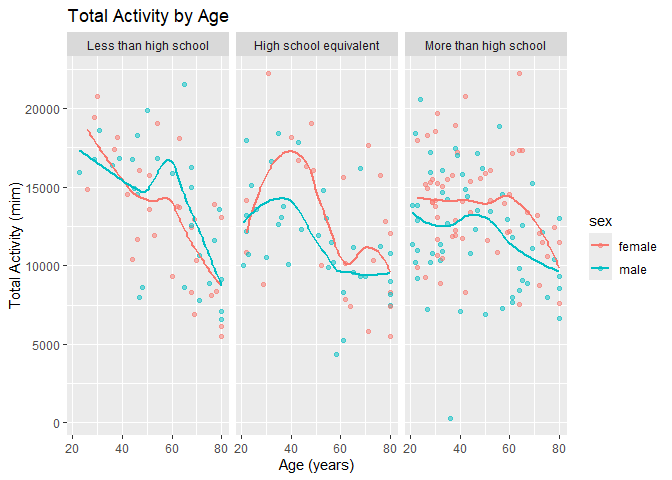
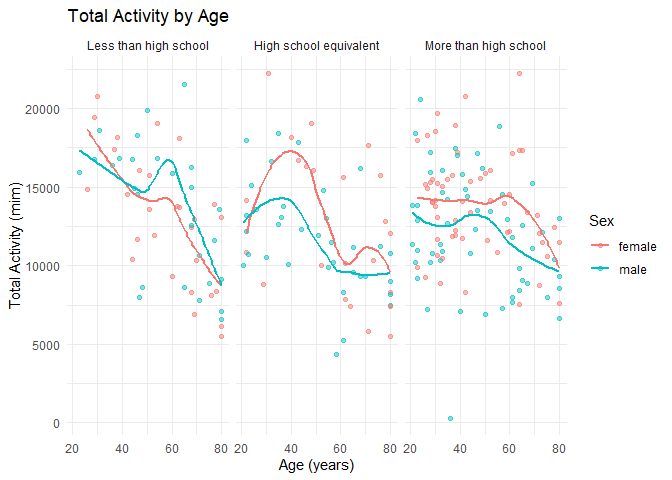
Q1, and some finishing touches on formatting.

Changed region(s): [[0.0938, 0.0625, 0.8438, 0.125], [0.875, 0.4375, 0.9062, 0.4688]]

diff --git a/p8105_hw3_pm3260.md b/p8105_hw3_pm3260.md
@@ -6,13 +6,94 @@ Pradeeti Mainali
 # Question 1
 
 ``` r
-library(p8105.datasets)
 data("ny_noaa")
 ```
 
-### Description of data set
+#### Description of data set
 
-### Data cleaning
+On first look, there are a LOT of missing data. This data set contains
+2595176 rows and 7 variables (id, date, prcp, snow, snwd, tmax, tmin).
+The avg prcp number is 29.8232355 and the avg snow is 37.3122807.
+
+#### Data cleaning
+
+``` r
+ny_noaa = 
+  ny_noaa |>
+  separate(date, into = c("year", "month", "day"), convert = TRUE) |> 
+  mutate(
+    tmax = as.numeric(tmax),
+    tmin = as.numeric(tmin))
+
+ny_noaa |>
+count(snow) |>
+arrange(desc(n))
+```
+
+    ## # A tibble: 282 × 2
+    ##     snow       n
+    ##    <int>   <int>
+    ##  1     0 2008508
+    ##  2    NA  381221
+    ##  3    25   31022
+    ##  4    13   23095
+    ##  5    51   18274
+    ##  6    76   10173
+    ##  7     8    9962
+    ##  8     5    9748
+    ##  9    38    9197
+    ## 10     3    8790
+    ## # ℹ 272 more rows
+
+The most observed value for snow is 0 and NA. This makes sense because
+it does not snow too much in NY.
+
+``` r
+ny_noaa |>
+  group_by(id, year, month) |>
+  filter(month %in% c(1, 7)) |>
+  summarize(mean_tmax = mean(tmax, na.rm = TRUE, color = id)) |>
+  
+  ggplot(aes(x = year, y = mean_tmax, group = id)) + geom_point() + geom_path() +
+  facet_grid(~month) +
+  labs(title = "Mean monthly temperature for each station across years for January and July") +
+  theme_minimal() + 
+  theme(legend.position = "bottom")
+```
+
+![](p8105_hw3_pm3260_files/figure-gfm/meannoaa-1.png)<!-- -->
+
+The temperature on avg is lower in Jan than July. The temperatures stay
+around a similar range within the two months, aside from a couple colder
+outliers (1983~ Jan, 1987~ July, 2004~ July).
+
+``` r
+# installed patchwork package
+library(patchwork)
+
+hex = 
+  ny_noaa |>
+  ggplot(aes(x = tmin, y = tmax)) + 
+  geom_hex() +
+  theme_minimal() + 
+  theme(legend.position = "bottom")
+
+ridge = 
+  ny_noaa |>
+  filter(snow < 100, snow > 0) |>
+  ggplot(aes(x = snow, y = as.factor(year))) + 
+  geom_density_ridges()
+
+hex + ridge
+```
+
+![](p8105_hw3_pm3260_files/figure-gfm/noaaplot-1.png)<!-- -->
+
+Most of the data is concentrated in the middle of the hex plot; there
+are also some data points (in the +,- quadrant) that indicate that some
+tmax values are less then tmin, which is concerning for the data. With
+the ridge plots, you can see clear peaks for all the years 0-35 mm, 45
+mm, and 80 mm of snow, each smaller than the last.
 
 # Question 2
 
@@ -59,7 +140,9 @@ table_sxed =
    mutate(
      education = 
        factor(education, 
-              levels = c("Less than high school", "High school equivalent", "More than high school")))|>
+              levels = c("Less than high school", 
+                         "High school equivalent", 
+                         "More than high school")))|>
   distinct(seqn, education, sex) |>
   count(education, sex) |>
   pivot_wider(
@@ -92,7 +175,9 @@ activity_plot = activity_df |>
    mutate(
      education = 
        factor(education, 
-              levels = c("Less than high school", "High school equivalent", "More than high school")))
+              levels = c("Less than high school", 
+                         "High school equivalent", 
+                         "More than high school")))
 
 ggplot(
   activity_plot, 
@@ -101,12 +186,13 @@ ggplot(
   labs(
      title = "Age Distributions by Education Level and Gender",
     x = "Education Level",
-    y = "Age"
+    y = "Age",
+    color = "Sex"
   ) +
   theme_minimal()
 ```
 
-![](p8105_hw3_pm3260_files/figure-gfm/unnamed-chunk-3-1.png)<!-- -->
+![](p8105_hw3_pm3260_files/figure-gfm/unnamed-chunk-1-1.png)<!-- -->
 
 Women: Median age for those with less than hs or hs equivalent education
 seems to be similar, while those with more than hs education seems to be
@@ -140,8 +226,10 @@ activity_total = activity_df |>
   labs(
     title = "Total Activity by Age",
     x = "Age (years)",
-    y = "Total Activity (mim)"
-  )
+    y = "Total Activity (mim)",
+    color = "Sex"
+  ) +
+  theme_minimal()
 ```
 
 ![](p8105_hw3_pm3260_files/figure-gfm/activity-1.png)<!-- -->
@@ -155,13 +243,17 @@ activity time than men (except in the second half of the plot for less
 than hs education).
 
 ``` r
-activity_hr = activity_df |>
+activity_hr = 
+  activity_df |>
   mutate(hour = ceiling(min / 60)) |>
   group_by(seqn, hour) |>
-  mutate(hr_mim = sum(mim, na.rm = TRUE), 
+  mutate(hr_mim = 
+           sum(mim, na.rm = TRUE), 
          education = 
-        factor(education, 
-              levels = c("Less than high school", "High school equivalent", "More than high school"))) |>
+           factor(education, 
+              levels = c("Less than high school", 
+                         "High school equivalent", 
+                         "More than high school"))) |>
   distinct(seqn, education, hr_mim, hour, sex)
 
 ggplot(activity_hr, aes(x = hour, y = hr_mim, color = sex)) +
@@ -171,8 +263,10 @@ ggplot(activity_hr, aes(x = hour, y = hr_mim, color = sex)) +
   labs(
     title = "24-hour activity time course by education and sex",
     x = "Time (hr)",
-    y = "Activity (mim)"
-  )
+    y = "Activity (mim)",
+    color = "Sex"
+  ) +
+  theme_minimal()
 ```
 
 ![](p8105_hw3_pm3260_files/figure-gfm/acthr-1.png)<!-- -->
@@ -233,7 +327,8 @@ from.
 #### Creating a table:
 
 ``` r
-citi_table <- citi_df |>
+citi_table =
+  citi_df |>
   group_by(year, month, member_casual) |>
   summarize(total_rides = n(), .groups = 'drop') |>
   arrange(year, month) |>
@@ -270,9 +365,11 @@ there are less casual riders around Jan 2020 due to COVID.
 
 ``` r
 top_stations = citi_df |>
-  filter(year == 2024, month == "July") |>
+  filter(
+    year == 2024, 
+    month == "July") |>
   group_by(start_station_name) |>
-  summarize(total_rides = n(), .groups = 'drop') |>
+  summarize(total_rides = n()) |>
   arrange(desc(total_rides)) |>
   slice_max(total_rides, n = 5) |>
   knitr::kable(
@@ -299,12 +396,19 @@ Top 5 Most Popular Starting Stations for July 2024
 ``` r
 citi_grid = citi_df |>
   group_by(year, month, weekdays) |>
-  mutate(median_duration = median(duration, na.rm = TRUE),
-         weekdays = factor(weekdays,
-         levels = c("Monday", "Tuesday", "Wednesday", "Thursday", "Friday", "Saturday", "Sunday")))
+  mutate(
+    median_duration = median(duration, na.rm = TRUE),
+    weekdays = 
+      factor(weekdays,
+             levels = c("Monday", "Tuesday", "Wednesday", 
+                        "Thursday", "Friday", "Saturday", 
+                        "Sunday")))
 
-
-ggplot(citi_grid, aes(x = weekdays, y = median_duration, group = interaction(year, month), color = interaction(year, month))) +
+ggplot(citi_grid, 
+       aes(x = weekdays, 
+           y = median_duration, 
+           group = interaction(year, month), 
+           color = interaction(year, month))) +
   geom_line() +
   geom_point() +
   facet_grid(year ~ month) +
@@ -317,7 +421,7 @@ ggplot(citi_grid, aes(x = weekdays, y = median_duration, group = interaction(yea
   theme(axis.text.x = element_text(angle = 45, hjust = 1))
 ```
 
-![](p8105_hw3_pm3260_files/figure-gfm/unnamed-chunk-6-1.png)<!-- -->
+![](p8105_hw3_pm3260_files/figure-gfm/unnamed-chunk-4-1.png)<!-- -->
 
 In both January and July, weekends tend to show slightly higher median
 ride durations compared to weekdays, which may indicate that riders use
@@ -349,19 +453,11 @@ ggplot(citi_plot,
   )
 ```
 
-    ## Picking joint bandwidth of 2.17
-
-    ## Picking joint bandwidth of 1.58
-
-    ## Picking joint bandwidth of 1.21
-
-    ## Picking joint bandwidth of 1.26
-
-![](p8105_hw3_pm3260_files/figure-gfm/unnamed-chunk-7-1.png)<!-- -->
+![](p8105_hw3_pm3260_files/figure-gfm/citiplot-1.png)<!-- -->
 
 Member riders seem to all have similar distribution despite the type of
 bike or month, with short 10-20 min rides being the most common. Casual
-riders show a wider range of ride times.Ride durations seem to be longer
+riders show a wider range of ride times. Ride duration seem to be longer
 in July than in January with a lightly wider distribution. For casual
 riders, when using electric bikes, their duration seems more
 concentrated to a shorter ride while classic bike tends to be more
